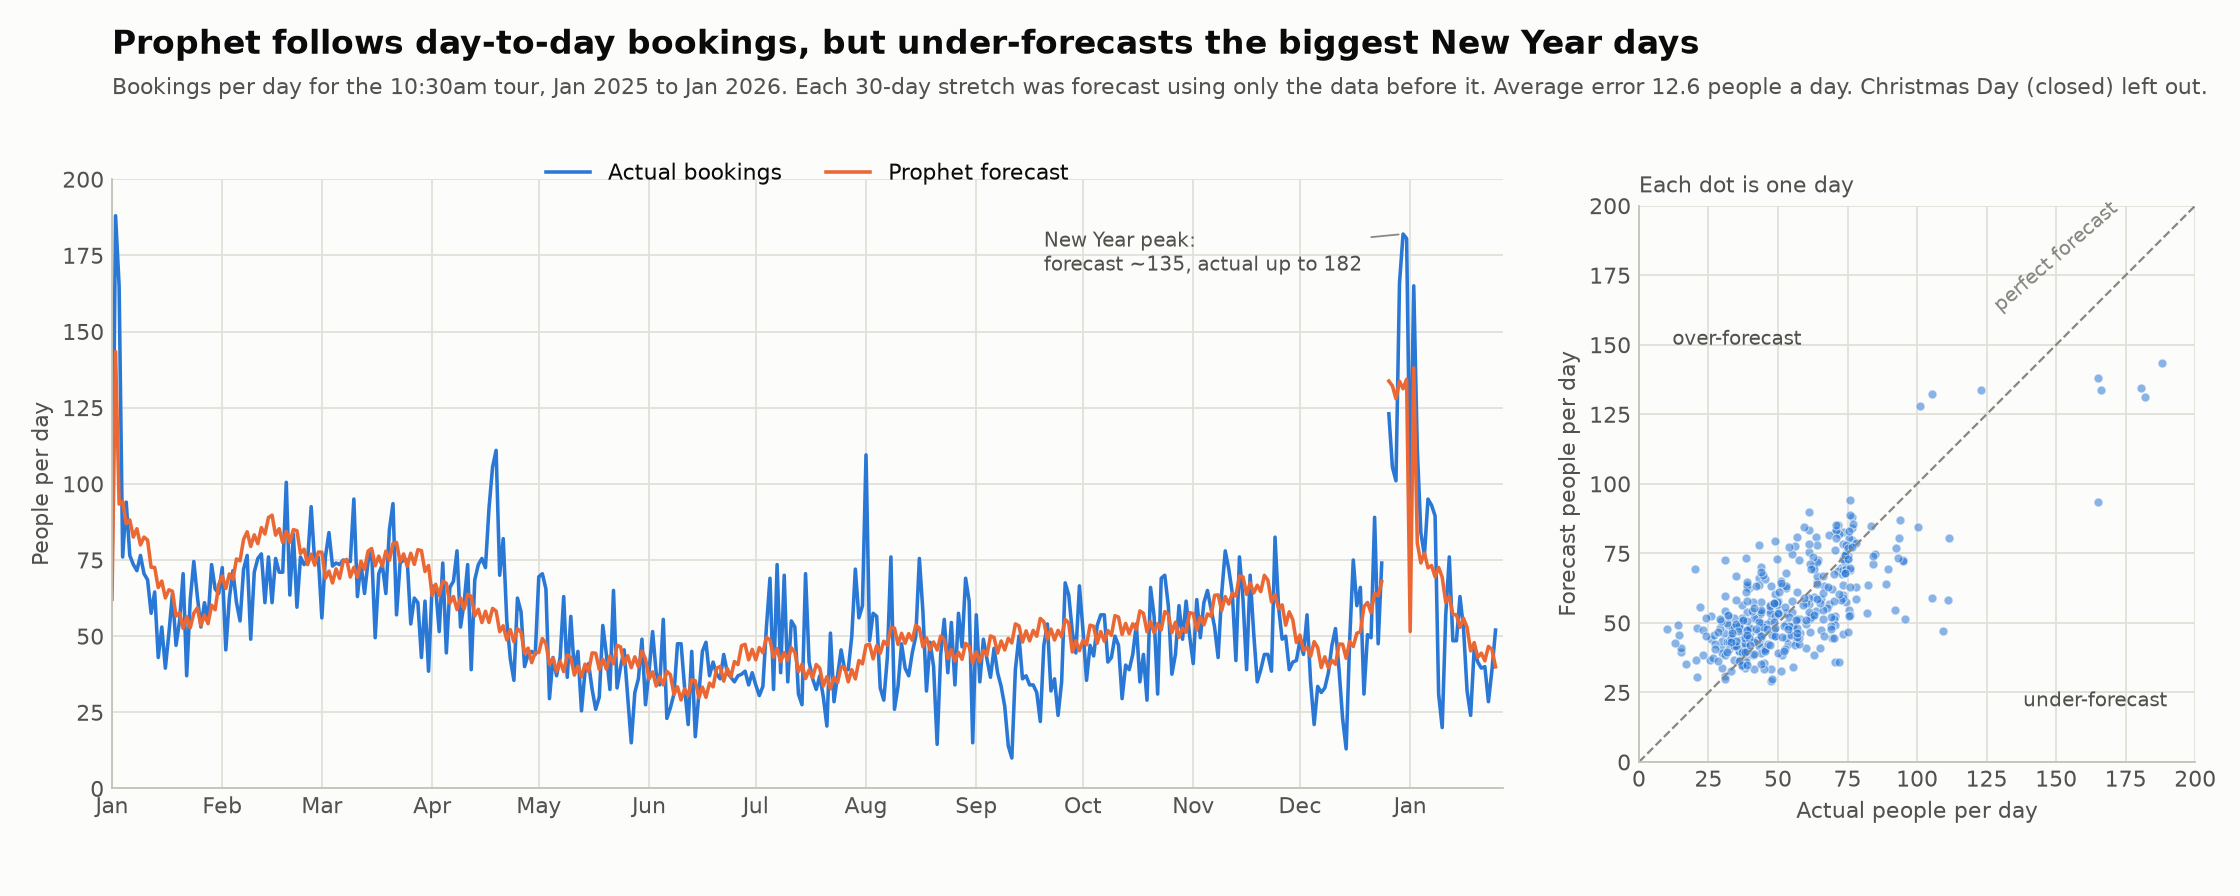
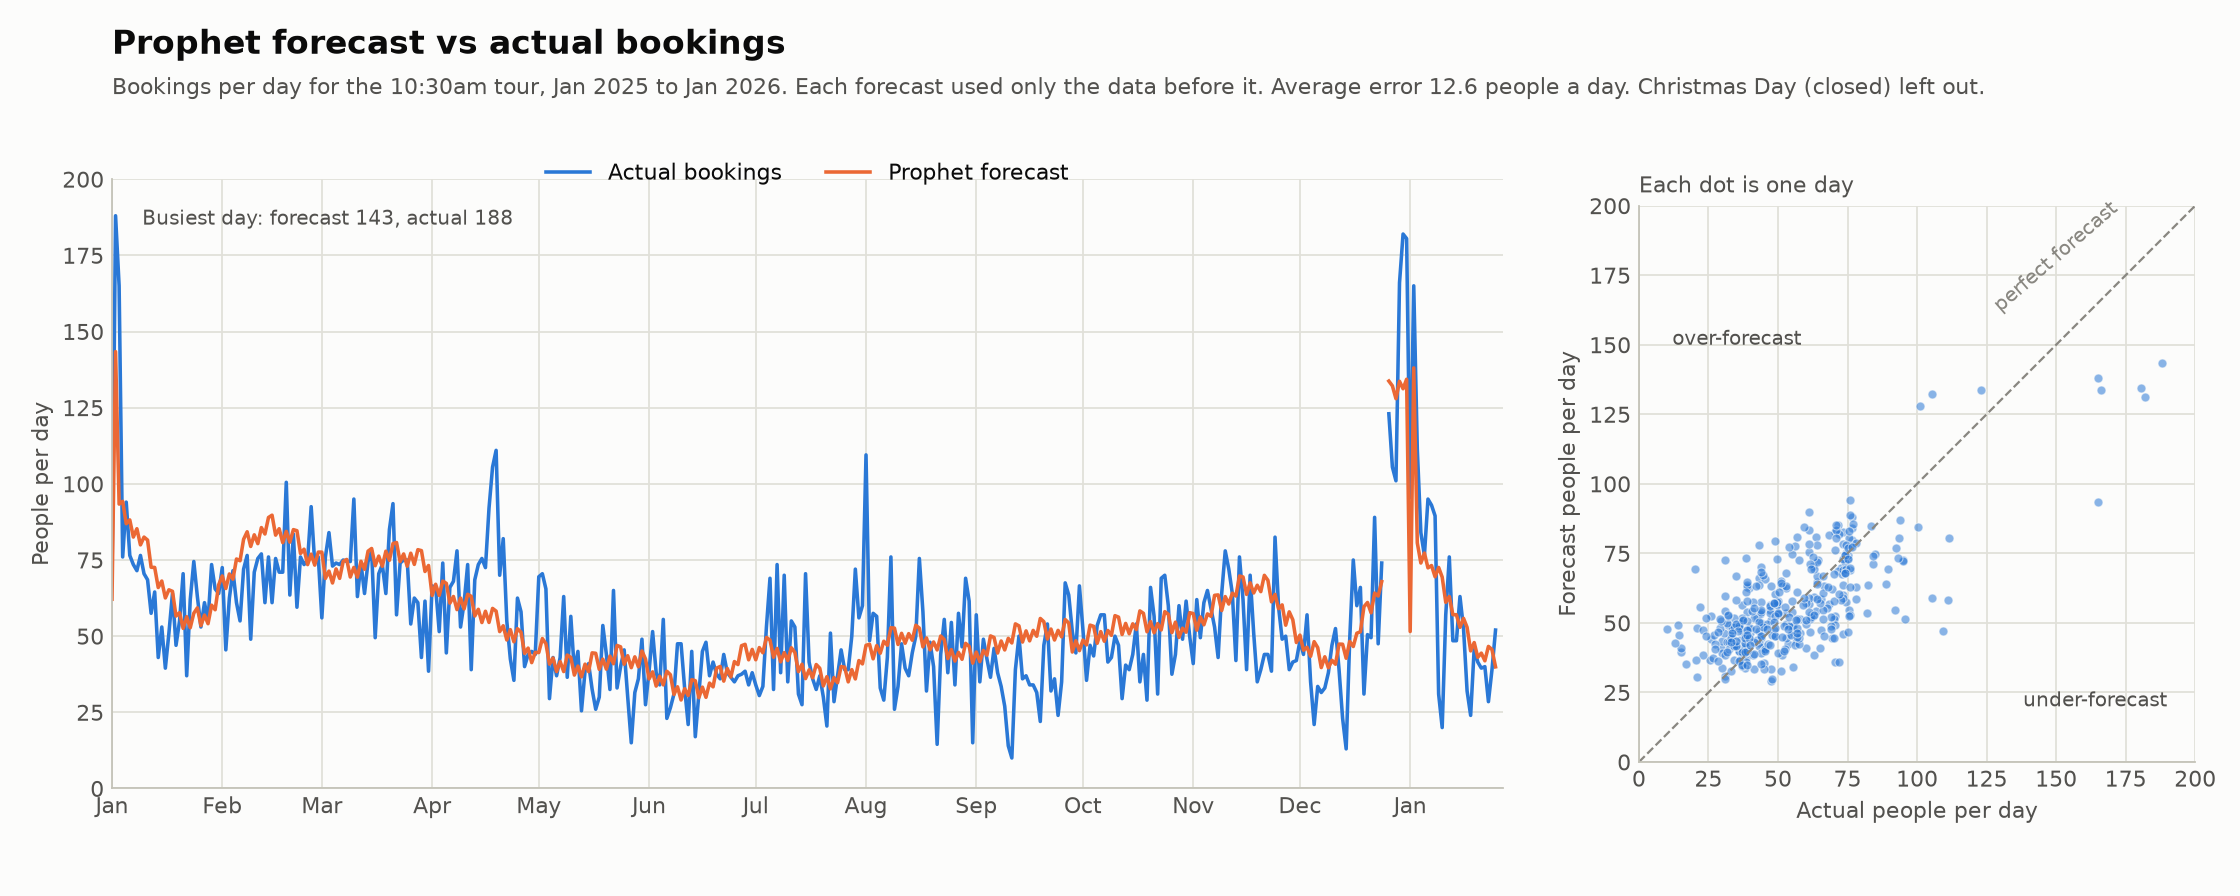
Turn the forecast-vs-actual chart into a reusable plots function
plots.plot_forecast_vs_actual(predictions, model, out_path) draws any
model's daily forecasts against actuals plus a scatter;
python -m tours.plots <model> redraws it from the latest comparison run.

Claude-Session: https://claude.ai/code/session_01Sn3ouyRoxzrHpus6dtQD69

Changed region(s): [[0.125, 0.0312, 0.9688, 0.125], [0.4688, 0.25, 0.625, 0.3125], [0.0625, 0.2188, 0.2188, 0.25]]

diff --git a/tours/plots.py b/tours/plots.py
@@ -1,29 +1,147 @@
-from pathlib import Path
+"""Figures. Each function takes data and returns a figure (and saves it if given a path).
 
-from loguru import logger
-from tqdm import tqdm
-import typer
+python -m tours.plots                 # prophet, from results/comparison_predictions.csv
+python -m tours.plots lightgbm        # any model in that file
+"""
 
-from tours.config import FIGURES_DIR, PROCESSED_DATA_DIR
+import sys
 
-app = typer.Typer()
+import matplotlib
+
+matplotlib.use("Agg")
+import matplotlib.dates as mdates  # noqa: E402
+import matplotlib.pyplot as plt  # noqa: E402
+import pandas as pd  # noqa: E402
+
+from tours import config  # noqa: E402
+
+# colours: validated two-series palette (categorical slots 1 and 2) + neutral inks
+SURFACE, INK, QUIET, MUTED = "#fcfcfb", "#0b0b0b", "#52514e", "#898781"
+GRID, AXIS = "#e1e0d9", "#c3c2b7"
+ACTUAL_COLOUR, FORECAST_COLOUR = "#2a78d6", "#eb6834"
+
+MODEL_NAMES = {"prophet": "Prophet", "lightgbm": "LightGBM", "mstl": "MSTL", "arimax": "ARIMAX"}
 
 
-@app.command()
-def main(
-    # ---- REPLACE DEFAULT PATHS AS APPROPRIATE ----
-    input_path: Path = PROCESSED_DATA_DIR / "dataset.csv",
-    output_path: Path = FIGURES_DIR / "plot.png",
-    # -----------------------------------------
-):
-    # ---- REPLACE THIS WITH YOUR OWN CODE ----
-    logger.info("Generating plot from data...")
-    for i in tqdm(range(10), total=10):
-        if i == 5:
-            logger.info("Something happened for iteration 5.")
-    logger.success("Plot generation complete.")
-    # -----------------------------------------
+def _style(ax):
+    ax.set_facecolor(SURFACE)
+    for side in ("top", "right"):
+        ax.spines[side].set_visible(False)
+    for side in ("left", "bottom"):
+        ax.spines[side].set_color(AXIS)
+    ax.grid(color=GRID, linewidth=0.8)
+    ax.set_axisbelow(True)
+    ax.tick_params(length=0, colors=QUIET)
+
+
+def plot_forecast_vs_actual(predictions, model="prophet", out_path=None):
+    """Daily forecast vs actual over time, plus a forecast-vs-actual scatter.
+
+    predictions: rows of (model, date, actual, pred), as in comparison_predictions.csv.
+    Christmas Day (closed) is left out.
+    """
+    p = predictions[predictions["model"] == model].copy()
+    if p.empty:
+        raise ValueError(f"no predictions for model {model!r}")
+    p["date"] = pd.to_datetime(p["date"])
+    p = p.sort_values("date").set_index("date")
+    xmas = (p.index.month == 12) & (p.index.day == 25)
+    p.loc[xmas, ["actual", "pred"]] = float("nan")
+    name = MODEL_NAMES.get(model, model)
+    mae = (p["pred"] - p["actual"]).abs().mean()
+    top = max(p["actual"].max(), p["pred"].max())
+    limit = (int(top // 50) + 1) * 50
+
+    fig = plt.figure(figsize=(14, 5.6), facecolor=SURFACE)
+    grid = fig.add_gridspec(
+        1, 2, width_ratios=[2.5, 1], wspace=0.14, left=0.05, right=0.98, top=0.8, bottom=0.12
+    )
+    ax, sc = fig.add_subplot(grid[0]), fig.add_subplot(grid[1])
+    fig.text(
+        0.05,
+        0.94,
+        f"{name} forecast vs actual bookings",
+        fontsize=15,
+        fontweight="bold",
+        color=INK,
+    )
+    fig.text(
+        0.05,
+        0.895,
+        f"Bookings per day for the 10:30am tour, {p.index.min():%b %Y} to {p.index.max():%b %Y}. "
+        f"Each forecast used only the data before it. Average error {mae:.1f} people a day. "
+        "Christmas Day (closed) left out.",
+        fontsize=10,
+        color=QUIET,
+    )
+
+    # left: over time
+    _style(ax)
+    ax.plot(p.index, p["actual"], color=ACTUAL_COLOUR, linewidth=1.6, label="Actual bookings")
+    ax.plot(p.index, p["pred"], color=FORECAST_COLOUR, linewidth=1.6, label=f"{name} forecast")
+    ax.xaxis.set_major_locator(mdates.MonthLocator())
+    ax.xaxis.set_major_formatter(mdates.DateFormatter("%b"))
+    ax.set_ylim(0, limit)
+    ax.set_xlim(p.index.min(), p.index.max() + pd.Timedelta(days=2))
+    ax.set_ylabel("People per day", color=QUIET)
+    ax.legend(
+        loc="upper center", ncol=2, frameon=False, labelcolor=INK, bbox_to_anchor=(0.5, 1.06)
+    )
+    busiest = p["actual"].idxmax()
+    on_right = busiest > p.index.min() + (p.index.max() - p.index.min()) / 2
+    ax.annotate(
+        f"Busiest day: forecast {p.loc[busiest, 'pred']:.0f}, actual {p.loc[busiest, 'actual']:.0f}",
+        xy=(busiest, p.loc[busiest, "actual"]),
+        xytext=(-12 if on_right else 12, -4),
+        textcoords="offset points",
+        ha="right" if on_right else "left",
+        fontsize=9,
+        color=QUIET,
+    )
+
+    # right: one dot per day
+    _style(sc)
+    days = p.dropna(subset=["actual", "pred"])
+    sc.scatter(
+        days["actual"],
+        days["pred"],
+        s=16,
+        color=ACTUAL_COLOUR,
+        alpha=0.55,
+        edgecolors=SURFACE,
+        linewidths=0.5,
+    )
+    sc.plot([0, limit], [0, limit], color=MUTED, linewidth=1, linestyle="--")
+    sc.text(
+        limit * 0.75,
+        limit * 0.81,
+        "perfect forecast",
+        rotation=41,
+        color=MUTED,
+        fontsize=9,
+        ha="center",
+    )
+    sc.text(limit * 0.95, limit * 0.1, "under-forecast", color=QUIET, fontsize=9, ha="right")
+    sc.text(limit * 0.06, limit * 0.75, "over-forecast", color=QUIET, fontsize=9)
+    sc.set_xlim(0, limit)
+    sc.set_ylim(0, limit)
+    sc.set_aspect("equal")
+    sc.set_xlabel("Actual people per day", color=QUIET)
+    sc.set_ylabel("Forecast people per day", color=QUIET)
+    sc.set_title("Each dot is one day", fontsize=10, color=QUIET, loc="left")
+
+    if out_path:
+        fig.savefig(out_path, dpi=160, facecolor=SURFACE)
+    return fig
+
+
+def main(model="prophet"):
+    predictions = pd.read_csv(config.RESULTS_DIR / "comparison_predictions.csv")
+    config.FIGURES_DIR.mkdir(parents=True, exist_ok=True)
+    out = config.FIGURES_DIR / f"{model}_actual_vs_forecast.png"
+    plot_forecast_vs_actual(predictions, model, out)
+    print(out.relative_to(config.PROJECT_ROOT))
 
 
 if __name__ == "__main__":
-    app()
+    main(*sys.argv[1:2])
